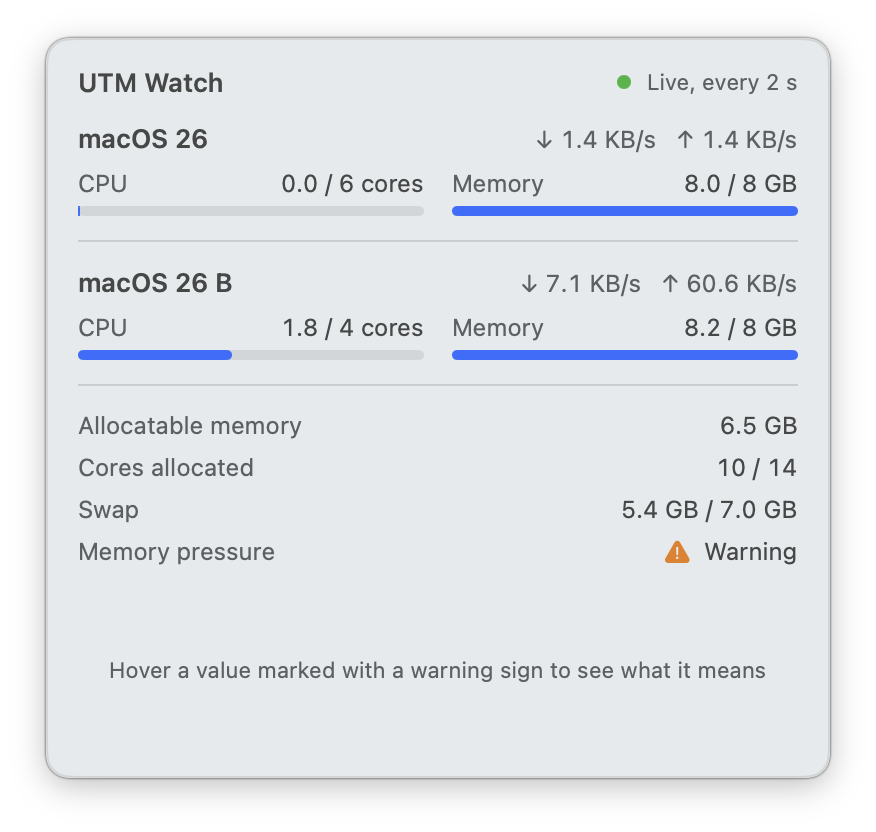
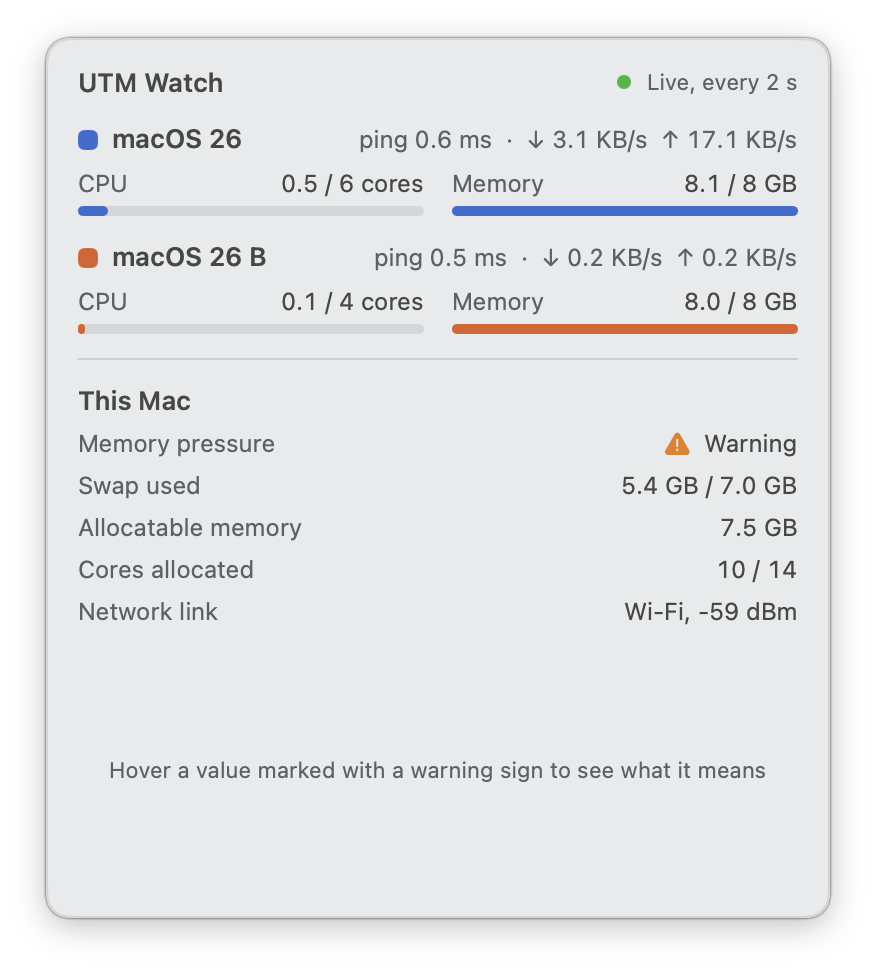
Retake the README screenshots and tidy the pinned toolbar
The screenshots now show the refined detail window (live and pinned)
and the new hover brief.

With a moment pinned, the toolbar no longer repeats the time next to
"Back to live": at the minimum window width it pushed the controls off
both edges, and the header already names the moment. The axis tick
under the pin flag is hidden over a slightly wider span so the two
never touch.

diff --git a/Sources/UTMWatchApp/DetailView.swift b/Sources/UTMWatchApp/DetailView.swift
@@ -83,9 +83,7 @@ struct DetailView: View {
                     Text("Live").fontWeight(.semibold)
                 }
             } else {
-                if let pin = detail.pin {
-                    Text("Showing \(Self.shortStamp.string(from: pin))").foregroundStyle(.secondary).monospacedDigit().fixedSize()
-                }
+                // The header below names the moment being shown; here the button is enough at the minimum width.
                 Button("Back to live") { detail.goLive() }.buttonStyle(.borderedProminent)
             }
             Button { onSettings() } label: { Image(systemName: "slider.horizontal.3") }
@@ -252,7 +250,6 @@ struct DetailView: View {
     }
 
     private static let stamp: DateFormatter = { let f = DateFormatter(); f.dateFormat = "EEE d MMM, HH:mm:ss"; return f }()
-    private static let shortStamp: DateFormatter = { let f = DateFormatter(); f.dateFormat = "EEE d MMM, HH:mm:ss"; return f }()
 
     @Environment(\.colorScheme) private var scheme
 

diff --git a/Sources/UTMWatchApp/TracksView.swift b/Sources/UTMWatchApp/TracksView.swift
@@ -416,7 +416,7 @@ struct TracksView: View {
             var t = ((Double(history.from) + offset) / step).rounded(.up) * step - offset
             while t <= Double(history.to) {
                 let x = fraction(Int64(t)) * w
-                if pinX.map({ abs($0 - x) < 46 }) != true {
+                if pinX.map({ abs($0 - x) < 62 }) != true {
                     let text = Text(f.string(from: Date(ms: Int64(t)))).font(.system(size: 11)).foregroundStyle(.secondary)
                     let anchor: UnitPoint = x < 24 ? .leading : (x > w - 24 ? .trailing : .center)
                     ctx.draw(text, at: CGPoint(x: x, y: size.height / 2), anchor: anchor)
